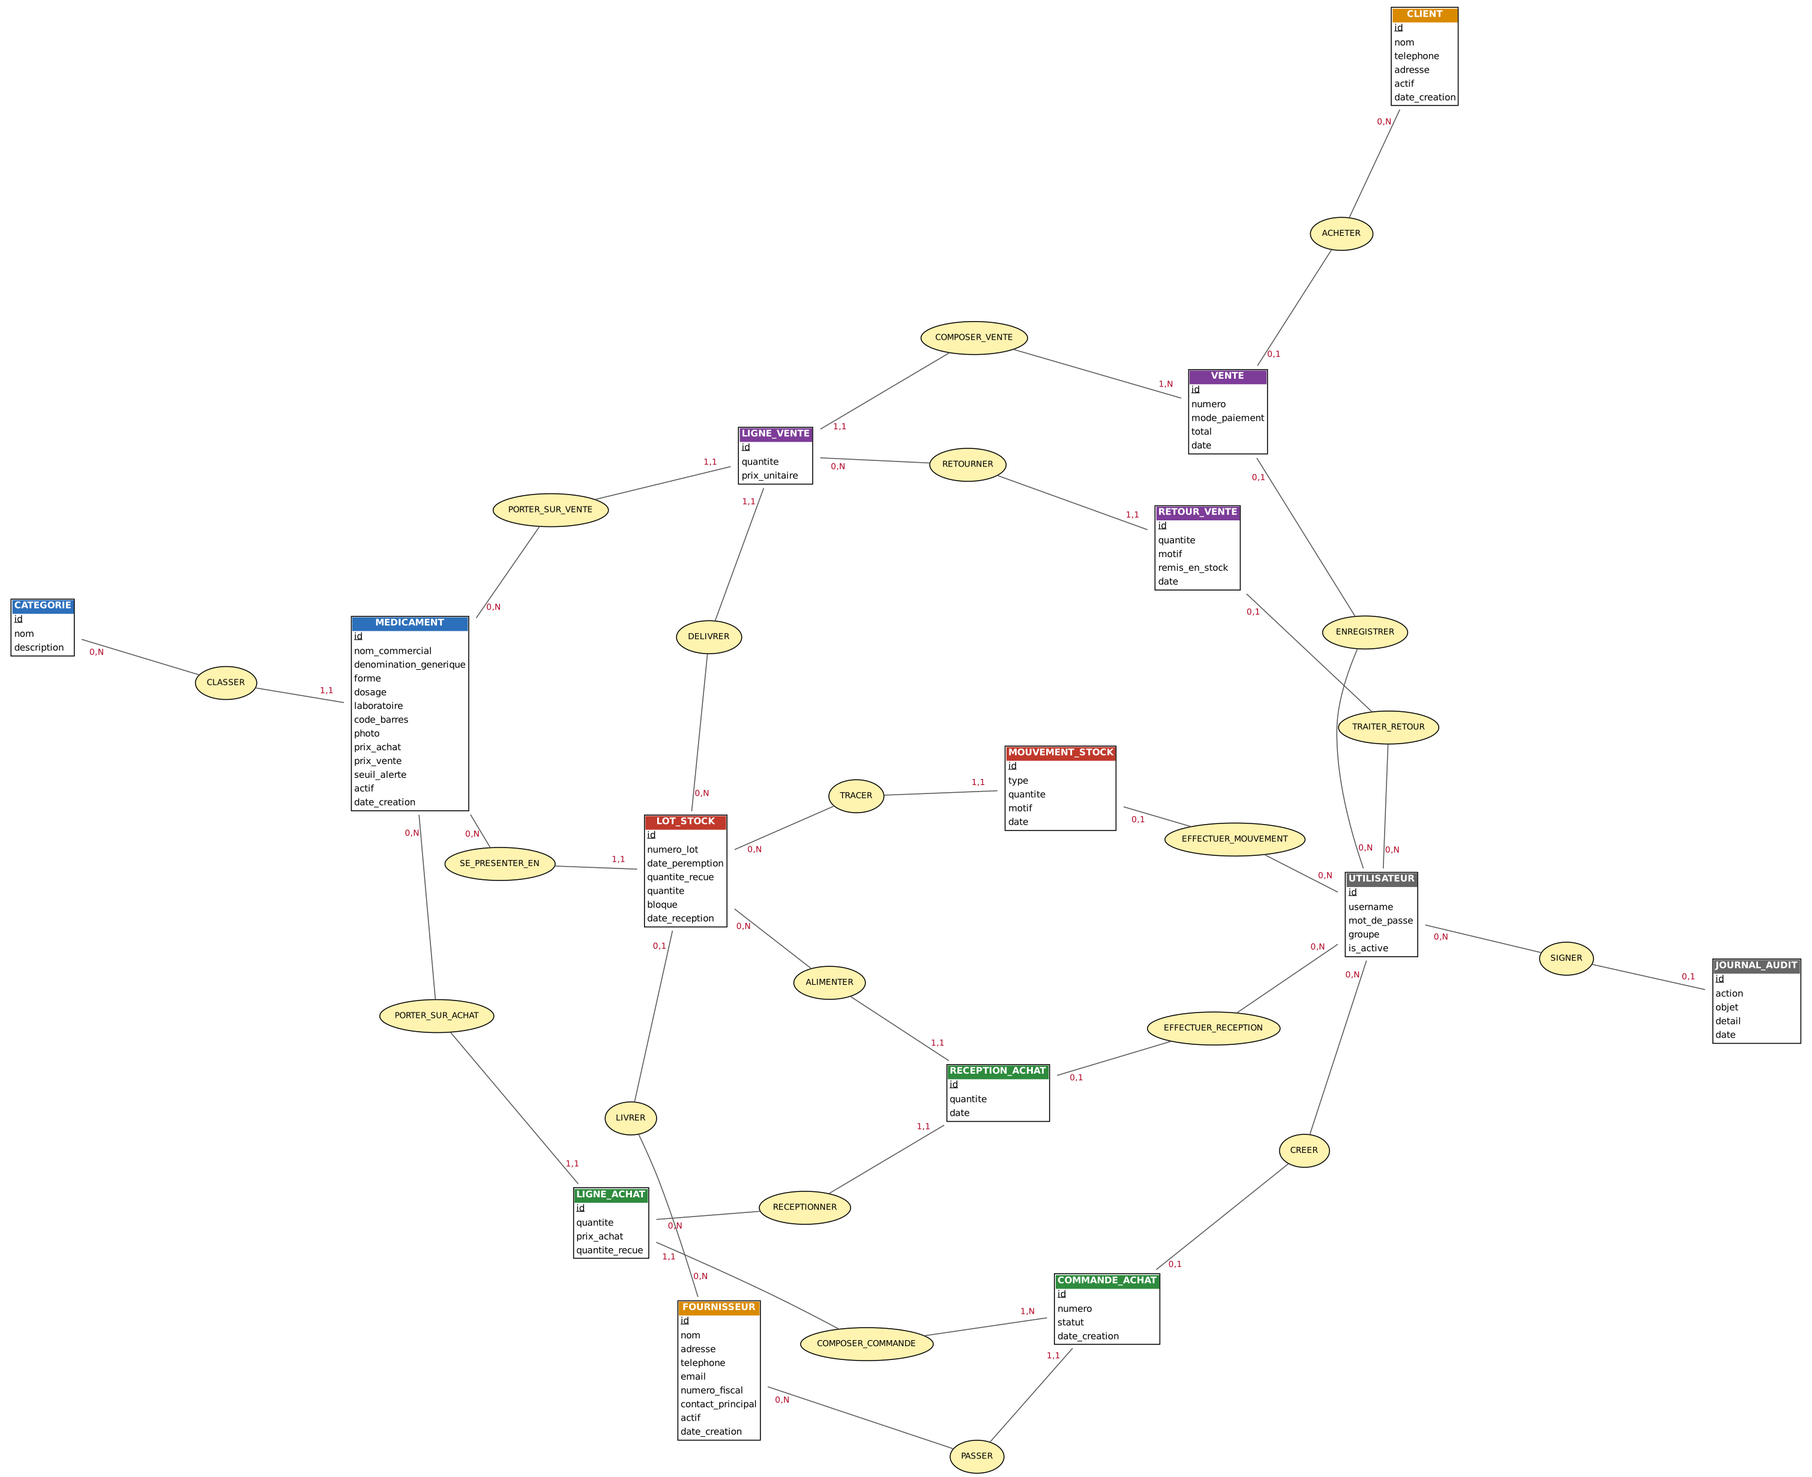
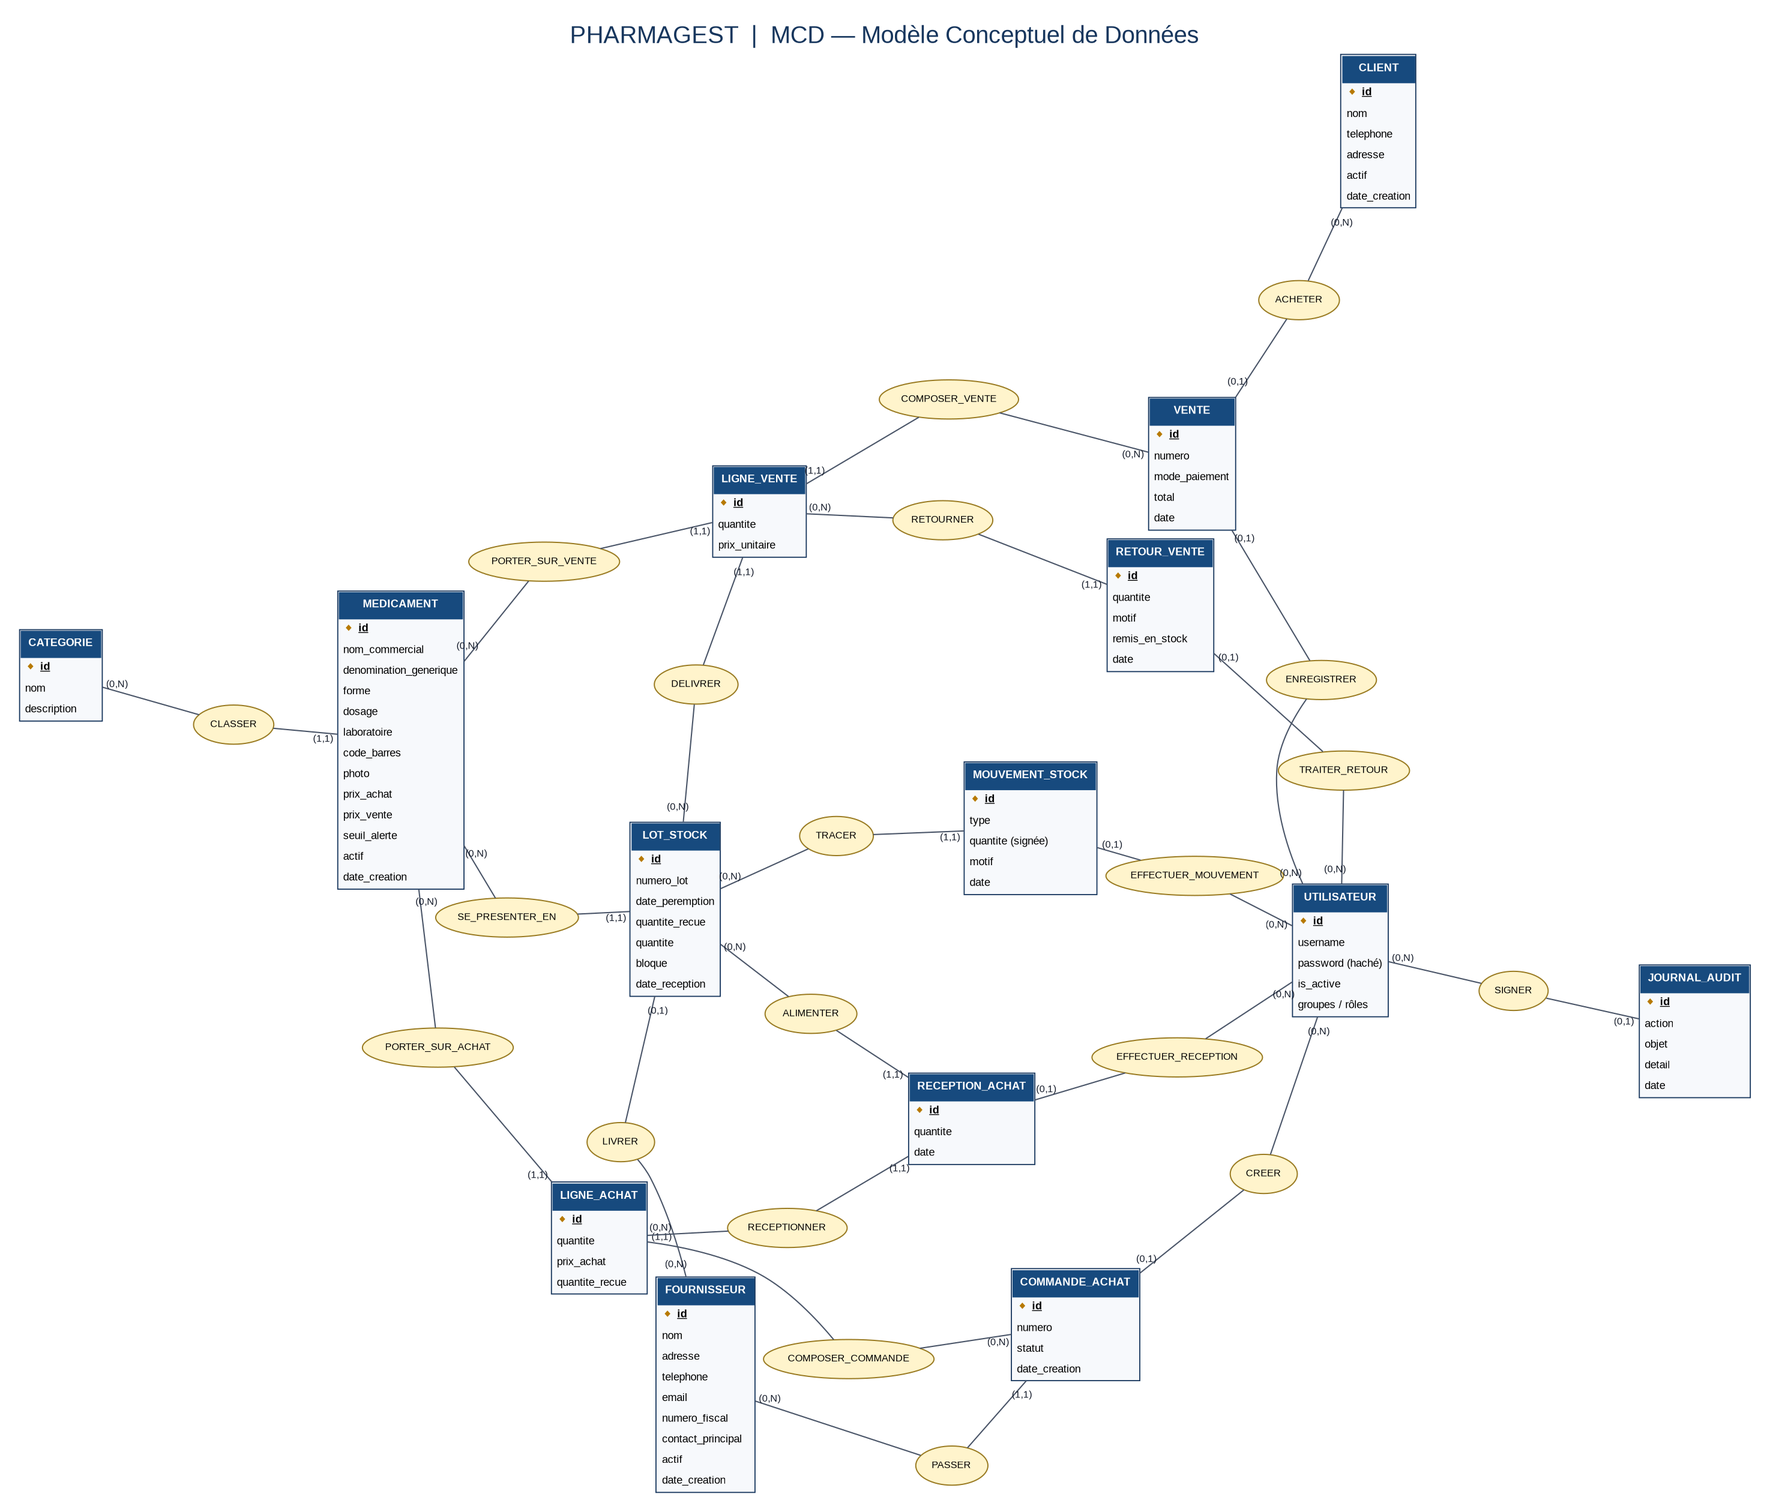
docs: MCD Merise, retrait des sauvegardes du depot

diff --git a/README.md b/README.md
@@ -1,135 +1,303 @@
 # PharmaGest
 
-Application web de gestion de pharmacie développée avec Django.
-Elle couvre le cycle complet : approvisionnement auprès des fournisseurs, suivi du stock par lots et dates de péremption, vente à la caisse, retours, rapports PDF et traçabilité des opérations.
+Application web de gestion de pharmacie développée avec **Django**.
 
-## Contenu de l'archive
+Elle couvre le cycle complet de gestion d'une pharmacie : approvisionnement auprès des fournisseurs, suivi du stock par lots et dates de péremption, vente à la caisse, gestion des retours, génération de rapports PDF et traçabilité des opérations.
+
+## 1. Contenu de l'archive
 
 | Élément | Rôle |
 |---|---|
 | `manage.py` | Point d'entrée des commandes Django |
-| `config/` | Réglages et adresses du projet |
-| `medicaments/`, `fournisseurs/`, `clients/`, `achats/`, `stock/`, `ventes/`, `rapports/`, `utilisateurs/` | Les applications (modèles, vues, formulaires) |
-| `templates/` | Pages HTML (Bootstrap 5) |
-| `db.sqlite3` | Base de données déjà remplie avec des données fictives |
+| `config/` | Configuration et adresses du projet |
+| `medicaments/`, `fournisseurs/`, `clients/`, `achats/`, `stock/`, `ventes/`, `rapports/`, `utilisateurs/` | Applications Django : modèles, vues et formulaires |
+| `templates/` | Pages HTML utilisant Bootstrap 5 |
+| `db.sqlite3` | Base de données préremplie avec des données fictives |
 | `media/` | Photos des médicaments |
 | `docs/` | Guide d'utilisation et dossier de conception |
-| `requirements.txt` | Liste des bibliothèques Python à installer |
+| `requirements.txt` | Liste des bibliothèques Python nécessaires |
 
-## Installation et lancement
+## 2. Installation et lancement
 
-**Prérequis :** Python 3.12 ou plus récent (vérifier avec `python --version`).
+### Prérequis
 
-**1. Décompresser l'archive**, puis ouvrir un terminal dans le dossier `PharmaGest` (celui qui contient `manage.py`).
+- Python 3.12 ou plus récent.
+- Vérification de la version :
 
-**2. Créer un environnement virtuel.** Il isole les bibliothèques du projet du reste de l'ordinateur :
+```bash
+python --version
+```
+
+### Étapes d'installation
+
+**1. Décompresser l'archive**
+
+Ouvrir un terminal dans le dossier `PharmaGest`, celui qui contient le fichier `manage.py`.
+
+**2. Créer un environnement virtuel**
+
 ```bash
 python -m venv .venv
 ```
 
-**3. Activer l'environnement virtuel :**
+**3. Activer l'environnement virtuel**
+
+Linux et macOS :
+
 ```bash
-source .venv/bin/activate        # Linux et macOS
-.venv\Scripts\activate           # Windows
+source .venv/bin/activate
 ```
+
+Windows :
+
+```bash
+.venv\Scripts\activate
+```
+
 Le terminal affiche alors `(.venv)` au début de la ligne.
 
-**4. Installer les bibliothèques** (Django, Pillow pour les photos, ReportLab pour les PDF) :
+**4. Installer les dépendances**
+
 ```bash
 pip install -r requirements.txt
 ```
 
-**5. Lancer le serveur :**
+Django, Pillow pour la gestion des photos et ReportLab pour la génération des PDF sont notamment utilisés.
+
+**5. Lancer le serveur**
+
 ```bash
 python manage.py runserver
 ```
 
-**6. Ouvrir le navigateur** à l'adresse http://127.0.0.1:8000/ : la page de connexion s'affiche. Pour arrêter le serveur, faire Ctrl+C dans le terminal.
+**6. Accéder à l'application**
 
-La base de données et les photos sont déjà dans l'archive : il n'y a ni migration, ni données à créer pour tester.
+Ouvrir le navigateur à l'adresse :
 
-## Comptes de test
+http://127.0.0.1:8000/
 
-| Compte | Mot de passe | Ce qu'il peut faire |
+La page de connexion s'affiche.
+
+Pour arrêter le serveur, utiliser `Ctrl + C` dans le terminal.
+
+La base de données et les photos étant déjà incluses dans l'archive, aucune migration ni création de données supplémentaire n'est nécessaire pour effectuer les tests avec la base fournie.
+
+## 3. Comptes de test
+
+| Compte | Mot de passe | Droits principaux |
 |---|---|---|
-| `pharmacien` | `Pharma2026!` | Tout : médicaments, stock, inventaire, achats, ventes, retours, rapports, journal d'audit |
-| `gestionnaire` | `Pharma2026!` | Médicaments, fournisseurs, achats, réceptions, inventaire, rapports de stock, de péremptions et d'achats |
-| `caissier` | `Pharma2026!` | Caisse, ventes, reçus, retours |
+| `pharmacien` | `Pharma2026!` | Accès complet à l'application |
+| `gestionnaire` | `Pharma2026!` | Médicaments, fournisseurs, achats, réceptions, inventaire et rapports de stock |
+| `caissier` | `Pharma2026!` | Caisse, ventes, reçus et retours |
 
-Un utilisateur qui tente une action hors de ses droits voit la page « Accès refusé ».
+Un utilisateur qui tente d'effectuer une action hors de ses autorisations est redirigé vers la page « Accès refusé ».
 
-Pour utiliser l'administration Django (`/admin/`), créer un compte administrateur :
+Pour accéder à l'administration Django (`/admin/`), créer un compte administrateur :
+
 ```bash
 python manage.py createsuperuser
 ```
 
-## Parcours de test conseillé (10 minutes)
+*Les identifiants fournis sont destinés exclusivement à la démonstration et aux tests.*
 
-1. Se connecter en `pharmacien` et regarder le **tableau de bord** : ventes, alertes de stock, péremptions, boutons PDF.
-2. Ouvrir un **médicament** avec sa photo, puis tester la recherche et le filtre par catégorie.
-3. **Achats** : créer une commande, la valider, puis réceptionner une partie. Le stock n'augmente qu'à la réception.
-4. **Caisse** : vendre un médicament à un client, puis ouvrir le reçu PDF. Essayer une quantité supérieure au stock : la vente est refusée.
-5. Sur un reçu, faire un **retour** avec un motif.
-6. **Stock** : consulter les lots, les mouvements, et faire un **inventaire** (saisir une quantité comptée différente).
-7. Revenir au tableau de bord et ouvrir le **journal d'audit** : toutes ces opérations y apparaissent.
-8. Se connecter en `caissier` : la réception de stock, l'inventaire et le journal affichent « Accès refusé ».
+## 4. Fonctionnalités réalisées
 
-## Fonctionnalités réalisées
-- Authentification, toutes les pages protégées
-- Rôles : Pharmacien, Caissier, Gestionnaire de stock
-- Médicaments : CRUD, photo, recherche, filtre par catégorie, pagination, archivage
-- Catégories : ajout, liste, modification
-- Fournisseurs : CRUD, recherche, désactivation
-- Clients : CRUD, recherche, historique des ventes, client facultatif (vente comptoir possible)
-- Achats : commandes (brouillon, commandée, partiellement réceptionnée, entièrement réceptionnée, annulée), réception partielle par lot, stock modifié uniquement à la réception
-- Stock : lots, péremptions, mouvements tracés, alertes (rupture, stock faible, péremption proche, lots périmés)
-- Réception de marchandise directe (transaction atomique)
-- Ventes : panier, FEFO automatique (le lot qui périme en premier part en premier), transaction atomique, prix figé, refus si stock insuffisant ou lot périmé ou bloqué
-- Retours de vente : motif obligatoire, remise en stock conditionnelle, vente d'origine conservée
-- Reçu de vente PDF (ReportLab)
-- Rapports PDF : stock, produits périmés ou proches de la péremption, ventes, achats
-- Inventaire physique : quantités comptées, écarts transformés en corrections tracées
-- Journal d'audit : ventes, retours, commandes, réceptions et inventaires (qui, quoi, quand), consultable par le pharmacien et en lecture seule dans l'administration
-- Sauvegarde et restauration de la base : commandes `sauvegarde` et `restaurer`
-- Tableau de bord
-- Tests automatisés (24) et données fictives (`seed`)
+### Gestion des médicaments et des référentiels
+- Gestion CRUD des médicaments.
+- Ajout et gestion des photos.
+- Recherche, filtres par catégorie et pagination.
+- Archivage des médicaments.
+- Gestion des catégories.
+- Gestion des fournisseurs : ajout, modification, recherche et désactivation.
+- Gestion des clients et consultation de leur historique de ventes.
 
-## Limites actuelles
-- Pas de paiement électronique vérifié (le mode de paiement est enregistré, sans table de paiements séparée)
-- Pas de factures ni de bons de commande et de réception en PDF (seuls le reçu de vente et les rapports sont générés)
-- Pas de réinitialisation du mot de passe par e-mail
-- Sauvegarde déclenchée par commande (à planifier avec cron ou le planificateur de tâches), pas de planification intégrée
-- Réglages de développement (`DEBUG` actif, clé secrète dans `config/settings.py`) : à changer avant une mise en production
+### Gestion des approvisionnements
+- Création et suivi des commandes d'achat.
+- Gestion des statuts : brouillon, commandée, partiellement réceptionnée, entièrement réceptionnée et annulée.
+- Réception partielle des commandes.
+- Gestion des lots et des quantités réceptionnées.
+- Réception directe de marchandises.
+- Mise à jour du stock uniquement lors de la réception effective.
 
-## Documentation
-- `docs/guide_utilisation.md` : guide d'utilisation, écran par écran
-- `docs/merise.md` : dossier de conception (dictionnaire de données, MCD, MLD, règles de gestion)
-- `docs/mcd.png` : modèle conceptuel de données (Merise)
-- `docs/mld.png` : schéma relationnel (MLD)
-- `docs/classes.png` : diagramme de classes UML généré depuis les modèles
+### Gestion du stock
+- Suivi du stock par lots.
+- Gestion des dates de péremption.
+- Alertes de rupture et de stock faible.
+- Alertes sur les lots périmés ou proches de la péremption.
+- Traçabilité des mouvements de stock.
+- Inventaire physique et gestion des écarts par mouvements de correction.
+- Blocage des lots non vendables.
 
-## Tests automatisés
+### Gestion des ventes et des retours
+- Panier de vente et gestion de la caisse.
+- Vente avec client facultatif (vente comptoir).
+- Déstockage automatique selon la méthode FEFO (*First Expired, First Out*).
+- Gestion transactionnelle des ventes.
+- Conservation du prix unitaire au moment de la vente.
+- Refus des ventes lorsque le stock est insuffisant ou que le lot est périmé ou bloqué.
+- Gestion des retours avec motif obligatoire.
+- Remise en stock conditionnelle.
+- Conservation de l'historique de la vente d'origine.
+
+### Rapports et traçabilité
+- Génération de reçus de vente PDF avec ReportLab.
+- Rapports PDF sur le stock, les péremptions, les ventes et les achats.
+- Journal d'audit : opérations, utilisateurs, dates et détails.
+- Consultation du journal d'audit par le pharmacien.
+- Sauvegarde et restauration de la base de données.
+- Tableau de bord avec indicateurs et alertes.
+
+### Sécurité et gestion des accès
+- Authentification Django.
+- Gestion des rôles : Pharmacien, Caissier et Gestionnaire de stock.
+- Protection des pages et des opérations selon les autorisations.
+- Page « Accès refusé » en cas de permission insuffisante.
+
+## 5. Conception et modélisation
+
+La conception de PharmaGest s'appuie sur la méthode **Merise** pour la modélisation des données et sur **UML** pour représenter la structure du système.
+
+Les modèles présentés permettent de décrire l'organisation des données, les relations entre les différentes entités et la structure des classes métier de l'application.
+
+### 5.1. Modèle conceptuel de données (MCD)
+
+Le MCD présente les entités métier, leurs propriétés, les associations et les cardinalités.
+
+![Modèle conceptuel de données](docs/mcd.png)
+
+### 5.2. Modèle logique de données (MLD)
+
+Le MLD représente la traduction relationnelle du modèle conceptuel. Il met en évidence les tables, les clés primaires et les clés étrangères.
+
+![Modèle logique de données](docs/mld.png)
+
+### 5.3. Diagramme de classes UML (DC)
+
+Le diagramme de classes UML représente les principales classes du système, leurs attributs, leurs méthodes et leurs relations.
+
+![Diagramme de classes UML](docs/classes.png)
+
+### 5.4. Dossier de conception
+
+Le dossier détaillé est disponible dans le fichier [`docs/merise.md`](docs/merise.md).
+
+Il comprend :
+- Le dictionnaire des données.
+- Le modèle conceptuel de données (MCD).
+- Le modèle logique de données (MLD).
+- Les associations et leurs cardinalités.
+- Les règles de gestion et leur mise en œuvre.
+- Les contraintes d'intégrité et les politiques de suppression.
+- Les écarts identifiés par rapport au cahier des charges.
+
+Les modèles de données sont définis dans les fichiers `models.py` des différentes applications Django. Le système d'authentification repose sur les mécanismes natifs de Django.
+
+## 6. Parcours de test conseillé (10 minutes)
+
+1. Se connecter avec le compte `pharmacien` et consulter le **tableau de bord** : ventes, alertes de stock, péremptions et rapports PDF.
+2. Ouvrir un **médicament** pour consulter sa fiche et sa photo. Tester la recherche et le filtre par catégorie.
+3. Aller dans **Achats** : créer une commande, la valider puis réceptionner une partie de la marchandise. Vérifier que le stock augmente uniquement lors de la réception.
+4. Aller dans **Caisse** : vendre un médicament à un client, puis consulter le reçu PDF. Essayer de vendre une quantité supérieure au stock disponible.
+5. Effectuer un **retour de vente** à partir d'un reçu en indiquant un motif.
+6. Consulter le **Stock** : lots, mouvements et inventaire physique.
+7. Revenir au tableau de bord et consulter le **journal d'audit** pour vérifier la traçabilité des opérations.
+8. Se connecter avec le compte `caissier` et vérifier les restrictions d'accès aux fonctions de réception, d'inventaire et au journal d'audit.
+
+## 7. Tests automatisés
+
+Pour lancer les tests :
+
 ```bash
 python manage.py test
 ```
-Résultat attendu : `Ran 24 tests ... OK` (une quinzaine de secondes, plus longtemps sur une machine lente). Les tests couvrent les permissions, les ventes, les achats, les retours, l'inventaire et les rapports.
 
-## Sauvegarde et restauration
+Résultat attendu :
+
+```text
+Ran 24 tests ... OK
+```
+
+Les tests couvrent notamment :
+- Les permissions et les rôles.
+- Les ventes et la gestion du stock.
+- Les achats et les réceptions.
+- Les retours de vente.
+- L'inventaire.
+- Les rapports.
+
+La durée d'exécution est d'environ quinze secondes, selon les performances de la machine.
+
+## 8. Sauvegarde et restauration
+
+PharmaGest intègre des commandes Django permettant de sauvegarder et de restaurer la base de données.
+
+### Créer une sauvegarde
+
 ```bash
-python manage.py sauvegarde               # crée backups/pharmagest-AAAAMMJJ-HHMMSS.sqlite3 (et les photos en .zip)
-python manage.py sauvegarde --garder 5    # ne conserve que les 5 dernières sauvegardes
+python manage.py sauvegarde
+```
+
+La sauvegarde est enregistrée dans le dossier `backups/` sous la forme :
+
+`pharmagest-AAAAMMJJ-HHMMSS.sqlite3`
+
+Les photos sont également sauvegardées dans une archive ZIP.
+
+### Limiter le nombre de sauvegardes conservées
+
+```bash
+python manage.py sauvegarde --garder 5
+```
+
+### Restaurer une sauvegarde
+
+```bash
 python manage.py restaurer backups/pharmagest-AAAAMMJJ-HHMMSS.sqlite3
 ```
-Avant toute restauration, la base actuelle est copiée en `db.avant-restauration`. Pour une sauvegarde quotidienne, planifier la première commande (cron sous Linux, planificateur de tâches sous Windows).
 
-## Repartir d'une base vide (facultatif)
-Supprimer `db.sqlite3`, puis :
+Avant toute restauration, la base de données actuelle est copiée dans un fichier `db.avant-restauration`.
+
+Pour automatiser les sauvegardes quotidiennes, il est possible de planifier la commande avec Cron sous Linux ou le Planificateur de tâches sous Windows.
+
+## 9. Repartir d'une base de données vide (facultatif)
+
+Pour initialiser une nouvelle base de données :
+
+1. Supprimer le fichier `db.sqlite3`.
+2. Exécuter les commandes suivantes :
+
 ```bash
-python manage.py migrate        # crée les tables
+python manage.py migrate
 python manage.py createsuperuser
-python manage.py seed           # médicaments, fournisseurs et stock fictifs
-python manage.py roles          # groupes et comptes pharmacien, caissier, gestionnaire
+python manage.py seed
+python manage.py roles
 ```
 
-## Technologies
-Python, Django, SQLite, Bootstrap 5, Pillow, ReportLab.
+Ces commandes permettent respectivement de créer les tables, de créer un compte administrateur, de charger des données fictives et de configurer les groupes et comptes de test.
+
+## 10. Limites actuelles
+
+Les fonctionnalités suivantes ne sont pas encore intégrées :
+
+- Pas de paiement électronique vérifié : le mode de paiement est enregistré sans table de paiements séparée.
+- Pas de génération de factures ni de bons de commande et de réception au format PDF. Seuls les reçus de vente et les rapports sont générés.
+- Pas de fonctionnalité de réinitialisation du mot de passe par e-mail.
+- Les sauvegardes sont déclenchées manuellement par commande ; leur planification doit être configurée avec Cron ou le Planificateur de tâches.
+- Les paramètres actuels sont adaptés au développement (`DEBUG` actif et clé secrète dans `config/settings.py`). Une configuration sécurisée est nécessaire avant toute mise en production.
+
+## 11. Technologies utilisées
+
+| Technologie | Utilisation |
+|---|---|
+| Python 3.12+ | Langage de programmation |
+| Django | Framework web |
+| SQLite | Système de gestion de base de données |
+| HTML / CSS | Structure et présentation des pages |
+| Bootstrap 5 | Interface utilisateur responsive |
+| Pillow | Gestion des images |
+| ReportLab | Génération des documents PDF |
+| Git / GitHub | Gestion du code source et versionnement |
+
+---
+
+**PharmaGest — Application web de gestion de pharmacie.**
